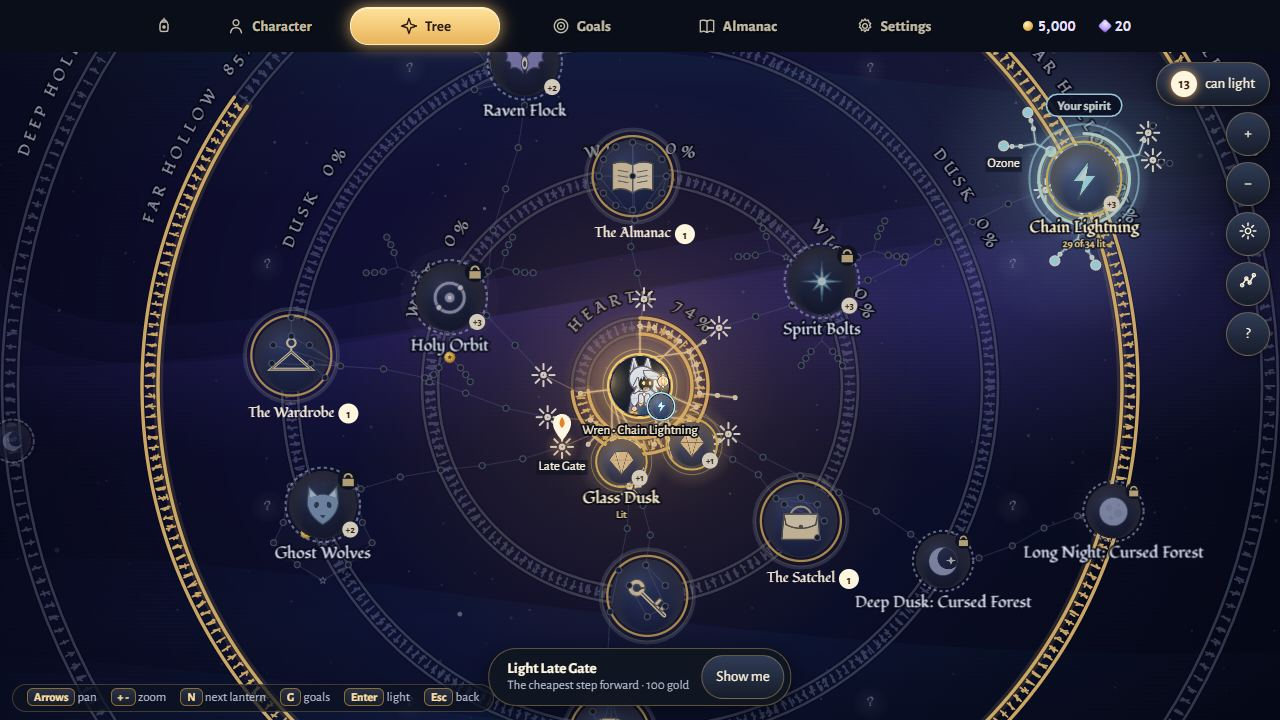
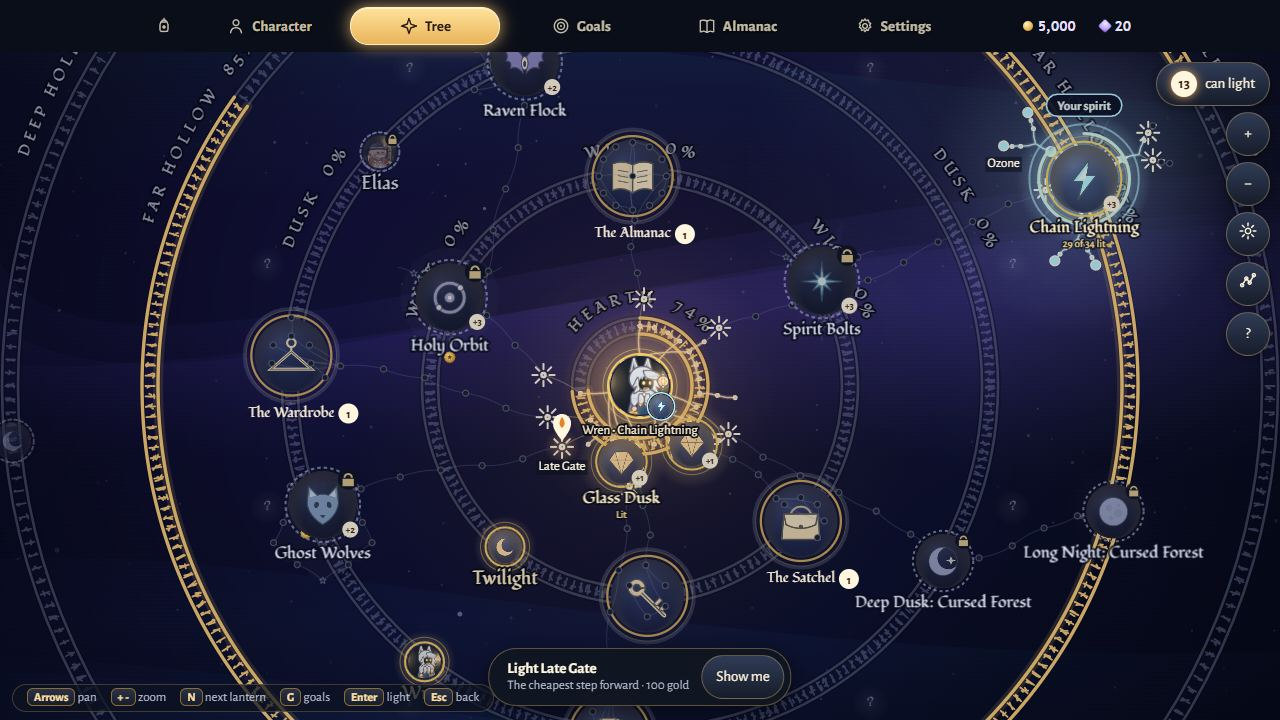
Tree look: curved threads, route chips, ring shimmer, petals + unfurl, veiled forks, label dim, calmer hearth wash

diff --git a/src/ui/treescreen.js b/src/ui/treescreen.js
@@ -74,7 +74,7 @@ export class TreeScreen {
     this.data = api.data;
     this.view = api.view;
     this.model = new TreeModel(this.def, this.data, this.view);
-    this.hoverFocus = null; this.focus = null; this.threads = []; this.adj = new Map();
+    this.hoverFocus = null; this.focus = null; this.threads = []; this.adj = new Map(); this.veil = new Set(); this.fogs = []; this.unfurl = new Map(); this.sealPrev = null; this.forkSeal = new Map(); this.chipBoxes = [];
     this.buildThreads(); // the geometry of the web, once (states are read per frame)
     this.pins = sanitizePins(store.get(PIN_KEY), this.def);
     this.selected = null;
@@ -337,6 +337,7 @@ export class TreeScreen {
     this.model.recompute(s, this.pins);
     this.mapEl.style.background = this.skyFor(this.model.progress);
     this.starter = this.starterInfo(s);
+    this.veilState();
     this.backdropState();
     this.setFocus();
     this.updateAll();
@@ -534,7 +535,7 @@ export class TreeScreen {
   }
   tierOfId(id) { return this.tiers.tier[id] || 'dot'; }
   /** Drawn (and tappable) at this zoom? FAR = landmarks, plus any lantern you can light now (a small glowing dot). */
-  shownAt(id, lod) { if (lod !== 'near' && this.farMerged && this.farMerged.has(id) && this.farMerged.get(id) !== id && id !== this.selected) return false; return tierShown(this.tierOfId(id), lod) || this.model.cache[id].s === 'ready' || id === this.selected; }
+  shownAt(id, lod) { if (this.veil.has(id)) return false; if (lod !== 'near' && this.farMerged && this.farMerged.has(id) && this.farMerged.get(id) !== id && id !== this.selected) return false; return tierShown(this.tierOfId(id), lod) || this.model.cache[id].s === 'ready' || id === this.selected; }
 
   draw(t) {
     const c = this.ctx;
@@ -561,14 +562,15 @@ export class TreeScreen {
       this.bg.drawSky(c, cam, W, H); this.bg.drawScreen(c, W, H); this.bg.drawTints(c, cam, W, H, this.tints);
       const nowMs = performance.now();
       const rings = this.view.ringTiers.map((q, k) => { const bl = !this.reduced && this.ringBloom[k] ? clamp(1 - (nowMs - this.ringBloom[k]) / 1800, 0, 1) : 0; if (bl > 0) this.animNeeded = true; return { r: q.r, name: q.name, frac: this.ringFrac[k] || 0, bloom: bl }; });
-      this.bg.drawRings(c, cam, W, H, rings, FONT_HEAD);
+      if (!this.reduced && this.ringFrac.some((f) => f > 0)) this.animNeeded = true; // the gold of the rings shimmers slowly (still with Calm motion)
+      this.bg.drawRings(c, cam, W, H, rings, FONT_HEAD, this.reduced ? 0 : t);
     }
     const pulse = this.reduced ? 0.5 : 0.5 + 0.5 * Math.sin(t / 420);
     const [hx, hy] = this.toS(0, 0);
     const R = (1100 + 700 * p) * z + 40;
     const pool = c.createRadialGradient(hx, hy, 0, hx, hy, R);
     const ga = this.small ? 0.6 : 1; // C3: the hub wash is calmer on small screens
-    pool.addColorStop(0, `rgba(255,179,90,${(0.14 + 0.3 * p) * ga * 0.8})`); // R3: the hearth's warm pool is wide, so colour returns across the screen as the Hollow is restored
+    pool.addColorStop(0, `rgba(255,179,90,${(0.14 + 0.3 * p) * ga * 0.4})`); // R3: the hearth's warm pool is wide, so colour returns across the screen as the Hollow is restored
     pool.addColorStop(1, 'rgba(255,154,58,0)');
     c.fillStyle = pool;
     c.beginPath(); c.arc(hx, hy, R, 0, 7); c.fill();
@@ -578,6 +580,8 @@ export class TreeScreen {
     this.drawRegions();
     this.drawToolCoins(lod);
     this.drawWeb(t);
+    this.drawFog(t);
+    this.drawPetals(t);
     const vx0 = cam.x - W / 2 / z - 80, vx1 = cam.x + W / 2 / z + 80, vy0 = cam.y - H / 2 / z - 80, vy1 = cam.y + H / 2 / z + 80;
     for (const r of this.view.regions) for (const s of r.display || []) { const [sx, sy] = this.toS(s.x, s.y); if (sx > -40 && sx < W + 40 && sy > -40 && sy < H + 40) this.seal(c, sx, sy, Math.max(lod === 'far' ? 2.5 : 6, 15 * z), 'gold'); }
     // lanterns (culled through the spatial index; at far zoom every lantern is a dot, batched into one path per colour, halos too)
@@ -600,6 +604,7 @@ export class TreeScreen {
       const ce = m.cache[id];
       const s = ce.s;
       if (s === 'fog' && lod === 'far') continue;
+      if (this.veil.has(id)) continue; // forks behind an unlit seal are fog, not lanterns
       const dim = this.onlyLight && s !== 'ready' ? 1 : foc && !foc.nodes.has(id) ? 4 : far && !foc && s === 'notyet' ? 3 : 0;
       const tier = this.tierOfId(id);
       if (lod !== 'near' && merged.has(id) && merged.get(id) !== id) continue;
@@ -609,7 +614,7 @@ export class TreeScreen {
       }
       const r = this.radiusOf(id, lod);
       if (tier === 'landmark') { coins.push({ id, n, x: sx, y: sy, r, s, ce, dim, tier }); labels.push({ id, x: sx, y: sy, r, s }); continue; } // R2: medallions are drawn after the small lanterns, on top of their threads
-      c.globalAlpha = DIMA[dim];
+      c.globalAlpha = DIMA[dim] * this.unfurlA(id);
       if (s === 'ready') { this.affordMark(c, sx, sy, r, pulse, false, best && best.id === id); this.animNeeded = true; }
       this.nodeShape(c, n, sx, sy, r, s, ce, id, lod);
       if (ce.fresh) this.newFlag(c, sx, sy - r - 9);
@@ -966,7 +971,8 @@ export class TreeScreen {
       if (!A || !B || (a !== 'hub' && A.teaser) || B.teaser) return; // teasers are fog, not threads
       if (!cross && Math.hypot(A.x - B.x, A.y - B.y) > V.linkFar) return; // a requirement longer than a thread can be is shown by the focus path, never across the web (cross links were already picked by distance by the atlas)
       seen.add(k);
-      out.push({ a, b, ax: A.x, ay: A.y, bx: B.x, by: B.y, cross, col: this.colorOf(cross ? a : b) });
+      const dx = B.x - A.x, dy = B.y - A.y, L = Math.hypot(dx, dy) || 1, off = (cross ? 0.18 : 0.1) * L * (idHash(k) < 0.5 ? 1 : -1); // a gentle bow, side picked per thread (like the sandbox)
+      out.push({ a, b, ax: A.x, ay: A.y, bx: B.x, by: B.y, cx: (A.x + B.x) / 2 - (dy / L) * off, cy: (A.y + B.y) / 2 + (dx / L) * off, cross, col: this.colorOf(cross ? a : b) });
     };
     for (const e of def.edges) {
       let from = e.from;
@@ -975,6 +981,8 @@ export class TreeScreen {
     }
     for (const l of V.links) if (def.nodes[l[0]] && def.nodes[l[1]]) add(l[0], l[1], true);
     this.threads = out;
+    this.forkSeal = new Map(); // fork lantern -> its seal (veil, petals, unfurl)
+    for (const g of V.gardens || []) for (const f of g.forks) for (const id of f) if (def.nodes[id]) this.forkSeal.set(id, g.seal);
     // display-only medallions (a hero's keepsake coin, the Twilight night, reserved and far slots): drawn quietly, never tapped, never counted as progress
     const KIND_ART = { hero: 'hero', night: 'moon_dusk', reserved: 'fog', chapter: 'forest', far: 'fog' };
     this.display = (V.regionRecords || []).filter((r) => r && r.display && Array.isArray(r.centre) && r.centre.every(Number.isFinite) && Object.hasOwn(KIND_ART, r.kind))
@@ -1029,6 +1037,90 @@ export class TreeScreen {
     }
   }
 
+  // ------------------------------------------------------------------ gardens: veiled forks, petals, unfurl, route chips
+  /** Forks behind an unlit seal are veiled (not drawn: a soft fog stands where they will grow); a seal that has just been lit unfurls its forks. */
+  veilState() {
+    const m = this.model, V = this.view;
+    const veil = new Set(), fogs = [];
+    const litSeals = new Set();
+    for (const g of V.gardens || []) {
+      if (!this.def.nodes[g.seal]) continue;
+      if (m.lit(g.seal)) { litSeals.add(g.seal); continue; }
+      const pts = [];
+      for (const f of g.forks) for (const id of f) { if (this.def.nodes[id]) { veil.add(id); pts.push(this.def.nodes[id]); } }
+      if (pts.length) { const x = pts.reduce((a, p) => a + p.x, 0) / pts.length, y = pts.reduce((a, p) => a + p.y, 0) / pts.length; fogs.push({ x, y, r: Math.max(...pts.map((p) => Math.hypot(p.x - x, p.y - y))) + 40, seal: g.seal }); }
+    }
+    if (this.sealPrev && !this.reduced) { const now = performance.now(); for (const sl of litSeals) if (!this.sealPrev.has(sl)) this.unfurl.set(sl, now); }
+    this.sealPrev = litSeals;
+    this.veil = veil; this.fogs = fogs;
+  }
+  /** 0..1: how far a fork has unfurled (1 once it is done, or when it is not a fork). */
+  unfurlA(id) {
+    if (!this.unfurl.size) return 1;
+    const sl = this.forkSeal.get(id); const t0 = sl ? this.unfurl.get(sl) : undefined;
+    if (t0 === undefined) return 1;
+    const k = (performance.now() - t0) / 600;
+    if (k >= 1) return 1;
+    this.animNeeded = true; this.dirty();
+    return k <= 0 ? 0 : 1 - Math.pow(1 - k, 3);
+  }
+  drawFog(t) {
+    const c = this.ctx, z = this.cam.z;
+    if (!this.fogs.length || z < 0.25) return;
+    for (const f of this.fogs) {
+      const [x, y] = this.toS(f.x, f.y); const R = f.r * z * 1.15;
+      if (x < -R || x > this.W + R || y < -R || y > this.H + R) continue;
+      const g = c.createRadialGradient(x, y, 0, x, y, R); g.addColorStop(0, 'rgba(150,162,205,.16)'); g.addColorStop(1, 'rgba(150,162,205,0)');
+      c.fillStyle = g; c.beginPath(); c.arc(x, y, R, 0, 7); c.fill();
+    }
+  }
+  /** Petals: once a seal is lit, each fork chain fills a soft leaf shape in the spirit's colour (more as its lanterns light). */
+  drawPetals(t) {
+    const z = this.cam.z, c = this.ctx, m = this.model;
+    if (z < 0.5) return;
+    const k = clamp((z - 0.5) / 0.2, 0, 1) * LOOK.bright;
+    for (const g of this.view.gardens || []) {
+      const sd = this.def.nodes[g.seal]; if (!sd || !m.lit(g.seal)) continue;
+      const col = this.colorOf(g.seal);
+      for (const f of g.forks) {
+        const tip = this.def.nodes[f[f.length - 1]]; if (!tip) continue;
+        const u = this.unfurlA(f[f.length - 1]); if (u <= 0) continue;
+        let ow = 0; for (const id of f) if (m.lit(id)) ow++;
+        const [ax, ay] = this.toS(sd.x, sd.y), [bx, by] = this.toS(tip.x, tip.y); const dx = bx - ax, dy = by - ay, L = Math.hypot(dx, dy) || 1, px = (-dy / L) * L * 0.24, py = (dx / L) * L * 0.24;
+        if (Math.max(ax, bx) < -60 || Math.min(ax, bx) > this.W + 60 || Math.max(ay, by) < -60 || Math.min(ay, by) > this.H + 60) continue;
+        c.beginPath(); c.moveTo(ax, ay); c.quadraticCurveTo((ax + bx) / 2 + px, (ay + by) / 2 + py, bx, by); c.quadraticCurveTo((ax + bx) / 2 - px, (ay + by) / 2 - py, ax, ay);
+        c.globalAlpha = u * (0.05 + (0.1 * ow) / f.length) * k; c.fillStyle = col; c.fill();
+      }
+    }
+    c.globalAlpha = 1;
+  }
+  /** Route chips on roads that have been started: '5 of 12 to Spirit Bolts' (sandbox look). */
+  drawChips(c) {
+    const z = this.cam.z, m = this.model;
+    if (z <= 0.3 || !this.view.roads || !this.view.roads.length) return;
+    const boxes = (this.lblBoxes || []).slice();
+    c.textBaseline = 'middle'; c.textAlign = 'center';
+    const uk = this.uk || 1;
+    for (const r of this.view.roads) {
+      const n = r.ids.length; if (!n) continue;
+      let k = 0; for (const id of r.ids) if (m.lit(id)) k++;
+      const to = this.def.nodes[r.to]; if (!to || k >= n || m.lit(r.to)) continue;
+      if (!(k > 0 || r.from === 'hub' || m.lit(r.from))) continue;
+      const mid = this.def.nodes[r.ids[Math.min(n - 1, Math.floor((n - 1) / 2))]]; if (!mid) continue;
+      const [x, y] = this.toS(mid.x, mid.y);
+      if (x < -60 || x > this.W + 60 || y < -30 || y > this.H + 30) continue;
+      const ce = m.cache[r.to]; const nm = ce && !ce.d.masked ? ce.d.name : 'a far lantern';
+      const txt = `${k} of ${n} to ${nm}`; c.font = `600 ${13 * uk}px ${FONT_UI}`;
+      const w = this.mw(c, c.font, txt) + 18 * uk, h = 22 * uk, bx = x - w / 2, by = y - 30 * uk - h / 2;
+      if (boxes.some((b) => b.x0 < bx + w && b.x1 > bx && b.y0 < by + h && b.y1 > by)) continue;
+      boxes.push({ x0: bx, x1: bx + w, y0: by, y1: by + h });
+      c.globalAlpha = (this.focus ? 0.55 : 0.95) * clamp((z - 0.3) / 0.1, 0, 1);
+      c.beginPath(); c.roundRect(bx, by, w, h, h / 2); c.fillStyle = 'rgba(12,17,38,.92)'; c.fill(); c.strokeStyle = 'rgba(255,210,122,.6)'; c.lineWidth = 1; c.stroke();
+      c.fillStyle = '#ffe6ae'; c.fillText(txt, x, by + h / 2 + 1);
+    }
+    c.globalAlpha = 1;
+  }
+
   drawWeb(t) {
     const c = this.ctx, z = this.cam.z, cam = this.cam, m = this.model, W = this.W, H = this.H, foc = this.focus;
     const sm = (x, a, b) => { const k = clamp((x - a) / (b - a), 0, 1); return k * k * (3 - 2 * k); };
@@ -1038,17 +1130,18 @@ export class TreeScreen {
     const th = this.threads || [];
     for (let i = 0; i < th.length; i++) {
       const e = th[i];
+      if (this.veil.has(e.a) || this.veil.has(e.b)) continue;
       const ax = (e.ax - cam.x) * z + W / 2, ay = (e.ay - cam.y) * z + H / 2, bx = (e.bx - cam.x) * z + W / 2, by = (e.by - cam.y) * z + H / 2;
       if ((ax < -40 && bx < -40) || (ax > W + 40 && bx > W + 40) || (ay < -40 && by < -40) || (ay > H + 40 && by > H + 40)) continue;
       const ao = e.a === 'hub' || m.lit(e.a), bo = m.lit(e.b);
       const st = ao && bo ? 2 : e.cross ? 0 : ao || bo ? 1 : 0;
-      const al = st > 0 ? 1 : e.cross ? crossA : lockA;
+      const al = (st > 0 ? 1 : e.cross ? crossA : lockA) * Math.min(this.unfurlA(e.a), this.unfurlA(e.b));
       if (al < 0.02) continue;
       const fm = foc ? (foc.edges.has(i) ? 1 : 0.4) : 1;
       const col = st === 0 ? '#8592c4' : e.col;
       const key = `${st}|${col}|${e.cross ? 1 : 0}|${(al * fm).toFixed(2)}`;
       let bk = buckets.get(key); if (!bk) { bk = { st, col, a: al * fm, cross: e.cross, path: new Path2D() }; buckets.set(key, bk); }
-      bk.path.moveTo(ax, ay); bk.path.lineTo(bx, by);
+      bk.path.moveTo(ax, ay); bk.path.quadraticCurveTo((e.cx - cam.x) * z + W / 2, (e.cy - cam.y) * z + H / 2, bx, by);
     }
     c.lineCap = 'round';
     for (const bk of [...buckets.values()].sort((p, q) => p.st - q.st)) {
@@ -1065,7 +1158,7 @@ export class TreeScreen {
     if (foc && foc.edges.size) { // the path from your nearest lit lantern, dashed and bright (it moves unless Calm motion is on)
       c.save(); c.setLineDash([11, 8]); c.lineDashOffset = this.reduced ? 0 : -t / 45; c.lineWidth = Math.max(2.2, 2.6 * z); c.strokeStyle = '#fff1c4'; c.globalAlpha = 0.96;
       c.beginPath();
-      for (const i of foc.edges) { const e = th[i]; const [ax, ay] = this.toS(e.ax, e.ay), [bx, by] = this.toS(e.bx, e.by); c.moveTo(ax, ay); c.lineTo(bx, by); }
+      for (const i of foc.edges) { const e = th[i]; const [ax, ay] = this.toS(e.ax, e.ay), [bx, by] = this.toS(e.bx, e.by), [qx, qy] = this.toS(e.cx, e.cy); c.moveTo(ax, ay); c.quadraticCurveTo(qx, qy, bx, by); }
       c.stroke(); c.restore();
       if (!this.reduced) this.animNeeded = true;
     }
@@ -1197,7 +1290,8 @@ export class TreeScreen {
     const uk = this.uk || 1; const lh = Math.round(17 * uk);
     c.font = `${13 * uk}px ${FONT_UI}`; c.textAlign = 'center'; c.textBaseline = 'top';
     const rank = (L) => (L.id === this.selected ? 0 : best && L.id === best.id ? 1 : this.def.nodes[L.id].kind === 'heart' ? 2 : 3);
-    for (const L of lms.sort((a, b) => rank(a) - rank(b))) this.landmarkLabel(c, L, uk, hitsLm, addBox);
+    for (const L of lms.sort((a, b) => rank(a) - rank(b))) { c.globalAlpha = this.focus && !this.focus.nodes.has(L.id) ? 0.45 : 1; this.landmarkLabel(c, L, uk, hitsLm, addBox); }
+    c.globalAlpha = 1;
     c.font = `${13 * uk}px ${FONT_UI}`; c.textAlign = 'center'; c.textBaseline = 'top';
     for (const L of pick) {
       const txt = m.cache[L.id].d.name; const w = this.mw(c, `${13 * uk}px ${FONT_UI}`, txt) + 8;
@@ -1205,10 +1299,13 @@ export class TreeScreen {
       const bx = { x0: L.x - w / 2, x1: L.x + w / 2, y0, y1: y0 + lh };
       if (hits(bx, L.id)) continue;
       addBox(bx);
+      c.globalAlpha = this.focus && !this.focus.nodes.has(L.id) ? 0.45 : 1;
       c.fillStyle = 'rgba(10,14,28,.55)'; c.fillRect(bx.x0 + 2, bx.y0 + 1, w - 4, lh - 2); // R2: a light plate (outlined text for every small name cost too much per frame)
       c.fillStyle = L.s === 'ready' ? '#fff6e0' : L.s === 'lit' ? '#fff3dc' : L.s === 'open' ? '#f5dfae' : L.s === 'challenge' ? '#9fe6dc' : '#b3bbcf';
       c.fillText(txt, L.x, y0 + 1);
     }
+    c.globalAlpha = 1;
+    this.drawChips(c);
   }
   drawRegionNames(lod) {
     const c = this.ctx; const z = this.cam.z; const m = this.model;

diff --git a/src/gfx/treebg.js b/src/gfx/treebg.js
@@ -152,7 +152,7 @@ export class TreeBackdrop {
    * (owned real lanterns in that tier / all real lanterns in it). A completed ring stays softly lit; `bloom[k]` (0..1) is the short flash right after it completes.
    * rings = [{r, name, frac, bloom}], font = canvas font family for the names. Cheap: vector arcs and one stroke per colour, culled to the screen.
    */
-  drawRings(c, cam, W, H, rings, font) {
+  drawRings(c, cam, W, H, rings, font, tMs = 0) {
     if (!rings || !rings.length) return;
     const z = cam.z, B = LOOK.ringBright, pw = 1 / z, a0 = -Math.PI / 2;
     const hx = W / 2 - cam.x * z, hy = H / 2 - cam.y * z;
@@ -166,7 +166,8 @@ export class TreeBackdrop {
       if (!(R > 0) || sr < dmin - 60 || sr > dmax + 60) return;
       const f = LOOK.ringArcs ? clamp(q.frac || 0, 0, 1) : 0, a1 = a0 + Math.PI * 2 * f, done = f >= 0.999;
       const bloom = clamp(q.bloom || 0, 0, 1);
-      const silA = 0.5 * B * LOOK.bright, goldA = clamp(0.95 * B, 0, 1);
+      const sh = tMs ? 0.9 + 0.1 * Math.sin((tMs / 1000) * 1.3 + k) : 1; // slow shimmer of the gold
+      const silA = 0.5 * B * LOOK.bright, goldA = clamp(0.95 * B * sh, 0, 1);
       const band = Math.max(14, 8 * pw);
       const arc = (r, from, to) => { c.beginPath(); c.arc(0, 0, r, from, to); };
       c.strokeStyle = 'rgba(2,4,14,.35)'; c.lineWidth = 5.5 * pw; arc(R - band, 0, 7); c.stroke(); arc(R + band, 0, 7); c.stroke();

diff --git a/src/meta/treeview.js b/src/meta/treeview.js
@@ -100,6 +100,9 @@ export function buildTreeView(info, def, data) {
       const [tx, ty] = r.thread.to, d = Math.hypot(tx, ty) || 1, k = 90 / d;
       return d > 140 ? [Math.round(tx * k), Math.round(ty * k), tx, ty] : [0, 0, 0, 0];
     }).filter((t) => t[2] !== 0 || t[3] !== 0),
+    // gardens (a seal and its two fork chains) and roads (bought path chains): geometry-free id lists the screen needs for petals, veils and route chips
+    gardens: Object.values(info.clusters || {}).flatMap((cl) => (Array.isArray(cl.branchInfo) ? cl.branchInfo : []).filter((b) => b && typeof b.seal === 'string' && Array.isArray(b.forks)).map((b) => ({ seal: b.seal, forks: b.forks.map((f) => f.filter((x) => typeof x === 'string')) }))),
+    roads: Array.isArray(info.roads) ? info.roads.map((r) => ({ from: r.from, to: r.to, ids: [...r.ids] })) : [],
     regionRecords: info.regions || [], // R1: data-only region records (name, centre, accent, backbone thread to the hub)
     regionOf,
     farFree,
